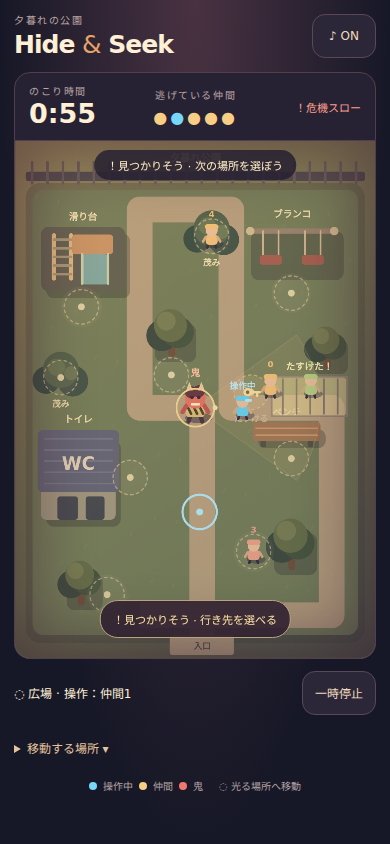
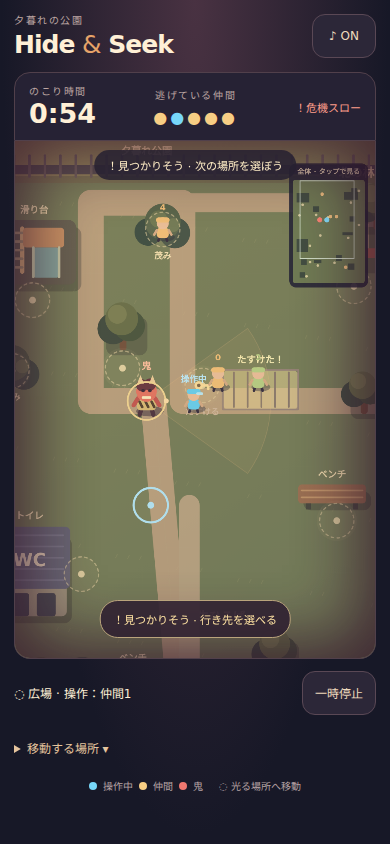
Add files via upload

Changed region(s): [[0.0308, 0.1232, 0.9846, 0.7701], [0.4, 0.7393, 0.6154, 0.8009]]

diff --git a/app.js b/app.js
@@ -1,11 +1,13 @@
-import {Game,W,H,points,obstacles,jail,RESCUE_POINT} from './engine.js';
+import {Camera,mini} from './camera.js';
+import {Game,W,H,points,obstacles,jail,RESCUE_POINT,WORLD_W,WORLD_H} from './engine.js';
 const $=id=>document.getElementById(id),canvas=$('park'),ctx=canvas.getContext('2d');
 let game=new Game(),selectedTime=60,active=false,paused=false,last=0,soundOn=true,audio,beatAt=0,eventIndex=0,toastUntil=0;
+const camera=new Camera();camera.center(game.controlled.x,game.controlled.y);
 const viewSettings={showVision:true}; // Future difficulty modes can turn off the cone.
 const reduced=matchMedia('(prefers-reduced-motion: reduce)').matches;
 function unlock(){try{audio??=new (window.AudioContext||window.webkitAudioContext)();audio.resume().catch(()=>{});}catch{soundOn=false;}}
 function tone(freq,duration=.12,volume=.035,type='sine',delay=0){if(!audio||!soundOn||audio.state!=='running')return;const t=audio.currentTime+delay,osc=audio.createOscillator(),gain=audio.createGain();osc.type=type;osc.frequency.setValueAtTime(freq,t);osc.frequency.exponentialRampToValueAtTime(Math.max(35,freq*.45),t+duration);gain.gain.setValueAtTime(.001,t);gain.gain.exponentialRampToValueAtTime(volume,t+.012);gain.gain.exponentialRampToValueAtTime(.001,t+duration);osc.connect(gain);gain.connect(audio.destination);osc.start(t);osc.stop(t+duration+.02);}
-function start(){unlock();game=new Game(selectedTime);active=true;paused=false;eventIndex=0;beatAt=0;toastUntil=0;$('startPanel').hidden=true;$('resultPanel').hidden=true;$('pause').disabled=false;$('pause').textContent='一時停止';$('hint').textContent='光る場所をタップして移動';tone(420,.2);updateUI();}
+function start(){unlock();game=new Game(selectedTime);camera.follow=true;camera.center(game.controlled.x,game.controlled.y);active=true;paused=false;eventIndex=0;beatAt=0;toastUntil=0;$('startPanel').hidden=true;$('resultPanel').hidden=true;$('pause').disabled=false;$('pause').textContent='一時停止';$('hint').textContent='光る場所をタップして移動';tone(420,.2);updateUI();}
 function go(p){if(!active||paused)return;if(game.move(game.controlledId,p)){tone(510,.07,.02);$('hint').textContent=points[p].name+'へ移動中…';}else if(game.controlled.state==='moving'){showToast('移動が終わったら、次の場所を選ぼう');}}
 function showToast(text){$('hint').textContent=text;toastUntil=game.elapsed+3;}
 $('start').onclick=start;$('again').onclick=start;$('back').onclick=()=>{active=false;$('resultPanel').hidden=true;$('startPanel').hidden=false;$('pause').disabled=true;game=new Game(selectedTime);updateUI();};
@@ -13,8 +15,20 @@ for(const b of document.querySelectorAll('[data-time]'))b.onclick=()=>{selectedT
 $('sound').onclick=()=>{soundOn=!soundOn;if(soundOn)unlock();$('sound').textContent=soundOn?'♪ ON':'♪ OFF';$('sound').setAttribute('aria-pressed',String(soundOn));$('sound').setAttribute('aria-label',soundOn?'音を切る':'音を出す');};
 function pause(){if(!active||game.state==='ended')return;paused=!paused;$('pause').textContent=paused?'再開 ▶':'一時停止';$('hint').textContent=paused?'一時停止中': '光る場所をタップして移動';if(!paused)unlock();}
 $('pause').onclick=pause;document.addEventListener('visibilitychange',()=>{if(document.hidden&&active&&!paused&&game.state==='playing')pause();});
-points.forEach((p,i)=>{const b=document.createElement('button');b.textContent=p.name;b.onclick=()=>go(i);$('locations').append(b);});
-canvas.addEventListener('pointerup',e=>{const r=canvas.getBoundingClientRect(),p={x:(e.clientX-r.left)*W/r.width,y:(e.clientY-r.top)*H/r.height};let closest=-1,d=Infinity;points.forEach((n,i)=>{const nd=Math.hypot(n.x-p.x,n.y-p.y);if(nd<d){d=nd;closest=i;}});if(d<Math.max(30,22*W/r.width))go(closest);});
+points.forEach((p,i)=>{const b=document.createElement('button');b.textContent=p.name;b.onclick=()=>{go(i);document.querySelector('details').open=false;document.querySelector('header').scrollIntoView({block:'start',behavior:'auto'});};$('locations').append(b);});
+let drag=null;
+canvas.addEventListener('pointerdown',e=>{const r=canvas.getBoundingClientRect();drag={id:e.pointerId,x:e.clientX,y:e.clientY,lastX:e.clientX,lastY:e.clientY,moved:false,sx:(e.clientX-r.left)*W/r.width,sy:(e.clientY-r.top)*H/r.height};canvas.setPointerCapture(e.pointerId);});
+canvas.addEventListener('pointermove',e=>{if(!drag||drag.id!==e.pointerId)return;const r=canvas.getBoundingClientRect();if(Math.hypot(e.clientX-drag.x,e.clientY-drag.y)>8)drag.moved=true;if(drag.moved){camera.pan((drag.lastX-e.clientX)*W/r.width,(drag.lastY-e.clientY)*H/r.height);drag.lastX=e.clientX;drag.lastY=e.clientY;}});
+canvas.addEventListener('pointercancel',()=>drag=null);
+canvas.addEventListener('pointerup',e=>{if(!drag)return;const gesture=drag;drag=null;if(gesture.moved)return;
+ const r=canvas.getBoundingClientRect(),sx=(e.clientX-r.left)*W/r.width,sy=(e.clientY-r.top)*H/r.height;
+ if(sx>=mini.x&&sx<=mini.x+mini.w&&sy>=mini.y&&sy<=mini.y+mini.h){camera.follow=false;camera.center((sx-mini.x)/mini.w*WORLD_W,(sy-mini.y)/mini.h*WORLD_H);return;}
+ const p=camera.world(sx,sy);let closest=-1,d=Infinity;points.forEach((n,i)=>{const screen=camera.screen(n.x,n.y);if(screen.x<0||screen.x>W||screen.y<0||screen.y>H)return;const nd=Math.hypot(n.x-p.x,n.y-p.y);if(nd<d){d=nd;closest=i;}});
+ if(d<Math.max(30,22*W/r.width))go(closest);
+});
+function resumeFollow(){camera.follow=true;showToast('青い帽子を追いかける');}
+$('follow').onclick=resumeFollow;
+$('follow').onpointerup=e=>{e.preventDefault();resumeFollow();};
 function updateUI(){const c=game.controlled,prisoners=game.characters.filter(c=>c.state==='captured').length,focused=game.focus.remaining>0;
  $('clock').textContent=`${Math.floor(Math.ceil(game.remaining)/60)}:${String(Math.ceil(game.remaining)%60).padStart(2,'0')}`;
  $('clock').style.color=game.remaining<=10&&active?'#ff9e8b':'';
@@ -49,28 +63,39 @@ function drawJail(){const count=game.characters.filter(c=>c.state==='captured').
  for(let x=jail.x+13;x<jail.x+jail.w;x+=16)line(x,jail.y+3,x,jail.y+jail.h-3,count?'#b69a7d':'#87796e',2);
  text(flash?'たすけた！':count?`牢屋 · ${count}人`:'鬼の牢屋',jail.x+jail.w/2,jail.y-8,11,flash?'#fff8bc':'#f2d1a6');
 }
-function draw(t){ctx.setTransform(2,0,0,2,0,0);ctx.clearRect(0,0,W,H);ctx.save();if(!reduced&&active&&!paused&&game.danger>.8){ctx.translate(Math.sin(t*28)*.7,Math.cos(t*24)*.5);}const bg=ctx.createLinearGradient(0,0,W,H);bg.addColorStop(0,'#9b8e60');bg.addColorStop(.5,'#767d55');bg.addColorStop(1,'#555c4e');ctx.fillStyle=bg;ctx.fillRect(0,0,W,H);
+function drawMapHUD(){
+ rect(mini.x-4,mini.y-19,mini.w+8,mini.h+24,'#242435dc',8);text('全体 · タップで見る',mini.x+mini.w/2,mini.y-7,8,'#dbc9ab');rect(mini.x,mini.y,mini.w,mini.h,'#707b54',3);
+ const px=x=>mini.x+x/WORLD_W*mini.w,py=y=>mini.y+y/WORLD_H*mini.h;
+ obstacles.forEach(o=>rect(px(o.x),py(o.y),o.w/WORLD_W*mini.w,o.h/WORLD_H*mini.h,'#434e42'));
+ points.forEach(p=>circle(px(p.x),py(p.y),1.5,p.rescue?'#f6e4a0':'#d4c99a'));
+ game.characters.forEach(c=>circle(px(c.x),py(c.y),c.id===game.controlledId?3:2,c.state==='captured'?'#a48ca5':c.id===game.controlledId?'#84e3ff':'#f4c581'));
+ circle(px(game.oni.x),py(game.oni.y),3,'#ff8775');ctx.strokeStyle='#dbe8d4';ctx.lineWidth=1;ctx.strokeRect(px(camera.x),py(camera.y),W/WORLD_W*mini.w,H/WORLD_H*mini.h);
+ const o=camera.screen(game.oni.x,game.oni.y);if(o.x<20||o.x>W-20||o.y<45||o.y>H-40){const x=Math.max(18,Math.min(W-18,o.x)),y=Math.max(48,Math.min(H-36,o.y));circle(x,y,13,'#603641dd');text('鬼',x,y+4,11,'#ffc39c');}
+ $('follow').hidden=camera.follow;
+}
+function draw(t){ctx.setTransform(2,0,0,2,0,0);ctx.clearRect(0,0,W,H);ctx.save();if(!reduced&&active&&!paused&&game.danger>.8){ctx.translate(Math.sin(t*28)*.7,Math.cos(t*24)*.5);}ctx.translate(-camera.x,-camera.y);const bg=ctx.createLinearGradient(0,0,WORLD_W,WORLD_H);bg.addColorStop(0,'#9b8e60');bg.addColorStop(.5,'#767d55');bg.addColorStop(1,'#555c4e');ctx.fillStyle=bg;ctx.fillRect(0,0,WORLD_W,WORLD_H);
  // park wall, looping footpath and small scenery
- rect(12,49,396,534,'#424b4355',18);rect(20,57,380,517,'#75805b',13);ctx.strokeStyle='#b9a280';ctx.lineWidth=30;ctx.lineJoin='round';ctx.beginPath();ctx.moveTo(218,579);ctx.lineTo(218,310);ctx.lineTo(145,310);ctx.lineTo(145,80);ctx.lineTo(252,80);ctx.lineTo(252,310);ctx.lineTo(369,310);ctx.lineTo(369,551);ctx.lineTo(145,551);ctx.stroke();ctx.strokeStyle='#baa78555';ctx.lineWidth=1;ctx.stroke();
- for(let i=0;i<80;i++){const x=24+(i*73%369),y=68+(i*113%492);line(x,y,x+2,y-4,'#d4c38b22',1);}
- rect(12,36,396,11,'#514e51',3);for(let x=18;x<405;x+=18)rect(x,24,3,27,'#6c6260',1);text('夕暮れ公園',210,24,12,'#f9d8a6');rect(180,574,75,23,'#baa785',3);text('入口',218,590,10,'#5c574d');bush(53,275);bush(229,111);
+ rect(12,49,WORLD_W-24,WORLD_H-66,'#424b4355',18);rect(20,57,WORLD_W-40,WORLD_H-83,'#75805b',13);ctx.strokeStyle='#b9a280';ctx.lineWidth=30;ctx.lineJoin='round';ctx.beginPath();ctx.moveTo(260,779);ctx.lineTo(218,310);ctx.lineTo(145,310);ctx.lineTo(145,80);ctx.lineTo(252,80);ctx.lineTo(252,310);ctx.lineTo(505,310);ctx.lineTo(505,731);ctx.lineTo(145,731);ctx.stroke();ctx.strokeStyle='#baa78555';ctx.lineWidth=1;ctx.stroke();
+ for(let i=0;i<140;i++){const x=24+(i*73%(WORLD_W-51)),y=68+(i*113%(WORLD_H-108));line(x,y,x+2,y-4,'#d4c38b22',1);}
+ rect(12,36,WORLD_W-24,11,'#514e51',3);for(let x=18;x<WORLD_W-15;x+=18)rect(x,24,3,27,'#6c6260',1);text('夕暮れ公園',210,24,12,'#f9d8a6');rect(222,774,75,23,'#baa785',3);text('入口',260,790,10,'#5c574d');bush(53,275);bush(229,111);bush(135,637);text('北の林',455,50,14,'#e8cca0');text('芝生ひろば',290,565,14,'#ebd1a5');text('休憩エリア',195,695,12,'#e8cca0');
+ line(252,80,505,80,'#b9a280',22);line(260,431,260,735,'#baa785',24);line(145,637,260,637,'#baa785',20);
  // Movement routes preview while walking.
  const player=game.controlled;if(player.route.length){ctx.setLineDash([3,6]);ctx.strokeStyle='#b3e6e78c';ctx.lineWidth=2;ctx.beginPath();ctx.moveTo(player.x,player.y);for(const p of player.route)ctx.lineTo(p.x,p.y);ctx.stroke();ctx.setLineDash([]);}
  obstacles.forEach(equipment);drawJail();
  points.forEach((p,i)=>{const chosen=player.destination===i;const pulse=reduced?0:Math.sin(t*2.5+i)*1.7;circle(p.x,p.y,22+pulse,'#faf0b40d');ctx.strokeStyle=chosen?'#b5edff':'#e9d7a68c';ctx.lineWidth=chosen?2.5:1.5;ctx.setLineDash(chosen?[]:[3,4]);ctx.beginPath();ctx.arc(p.x,p.y,20,0,Math.PI*2);ctx.stroke();ctx.setLineDash([]);circle(p.x,p.y,4,chosen?'#b5edff':'#e4d6a6');if(p.bush)text('茂み',p.x,p.y+34,10);if(p.rescue){const prisoners=game.characters.filter(c=>c.state==='captured').length;circle(p.x,p.y,19,prisoners?'#f6d98e55':'#f6d98e15');circle(p.x-4,p.y,5,'#ffe3a0');circle(p.x-4,p.y,2,'#756146');line(p.x+1,p.y,p.x+10,p.y,'#ffe3a0',3);line(p.x+7,p.y,p.x+7,p.y+4,'#ffe3a0',3);text('たすける',p.x,p.y+34,10,prisoners?'#fff0ac':'#d0baa1');}});
  oni();[...game.characters].sort((a,b)=>a.y-b.y).forEach(character);
- const dusk=ctx.createLinearGradient(0,0,W,H);dusk.addColorStop(0,'#eb965313');dusk.addColorStop(1,'#22274322');ctx.fillStyle=dusk;ctx.fillRect(0,0,W,H);ctx.restore();}
+ const dusk=ctx.createLinearGradient(0,0,WORLD_W,WORLD_H);dusk.addColorStop(0,'#eb965313');dusk.addColorStop(1,'#22274322');ctx.fillStyle=dusk;ctx.fillRect(0,0,WORLD_W,WORLD_H);ctx.restore();drawMapHUD();}
 let uiTimer=0;function frame(now){const dt=Math.min((now-last)/1000||0,.05);last=now;if(active&&!paused){game.update(dt);
  let controlEvent=null;for(const e of game.events.filter(e=>e.seq>eventIndex)){eventIndex=e.seq;
   if(e.type==='spotted'){tone(360,.2,.035,'triangle');showToast(e.id===game.controlledId?'！見つかった！':`仲間${e.id}が見つかった！`);}
   if(e.type==='capture'){tone(120,.2,.035);showToast(`${e.id===0?'あなた':`仲間${e.id}`}が牢屋へ…`);}
-  if(e.type==='control'){tone(470,.13);controlEvent=e;}
+  if(e.type==='control'){tone(470,.13);controlEvent=e;camera.follow=true;}
   if(e.type==='rescue'){tone(540,.16,.025);tone(720,.22,.025,'sine',.12);showToast(`たすけた！ ${e.count}人が自由に！`);}
   if(e.type==='focus'){tone(90,.19,.05);showToast('！見つかりそう · 次の場所を選ぼう');}
  }
- if(controlEvent&&game.state==='playing')showToast(`青い帽子の仲間${controlEvent.id}に交代！ たすけに行こう`);
+ if(controlEvent&&game.state==='playing')showToast(`捕まった！ 青い帽子の仲間${controlEvent.id}へ交代`);
  if(game.state==='ended')end();
  if(game.danger>.25&&game.elapsed>beatAt){const focus=game.focus.remaining>0,interval=focus?.38:1.3-game.danger*.85;beatAt=game.elapsed+interval;tone(75,.13,focus?.045:.02+game.danger*.018);tone(60,.12,focus?.035:.018,'sine',.15);}
  }
- uiTimer+=dt;if(uiTimer>.1){updateUI();uiTimer=0;}draw(now/1000);requestAnimationFrame(frame);}updateUI();requestAnimationFrame(frame);
+ uiTimer+=dt;if(uiTimer>.1){updateUI();uiTimer=0;}camera.track(game.controlled,dt);draw(now/1000);requestAnimationFrame(frame);}updateUI();requestAnimationFrame(frame);
 if('serviceWorker'in navigator&&location.protocol!=='file:')navigator.serviceWorker.register('./sw.js').catch(()=>{});

diff --git a/phase2-engine.js b/phase2-engine.js
@@ -1,27 +1,23 @@
-export const W=420,H=600; // Fixed viewport; canvas resolution is unchanged.
-export const WORLD_W=560,WORLD_H=800;
-export const WALK_SPEED=61;
+export const W=420,H=600;
 export const obstacles=[
- {x:30,y:100,w:98,h:75,type:'slide'}, {x:399,y:97,w:108,h:57,type:'swing'},
- {x:30,y:460,w:87,h:100,type:'toilet'}, {x:387,y:407,w:79,h:22,type:'bench'},
- {x:157,y:205,w:48,h:44,type:'tree'}, {x:430,y:648,w:50,h:48,type:'tree'},
- {x:54,y:715,w:42,h:42,type:'tree'}, {x:442,y:283,w:40,h:40,type:'tree'},
- {x:455,y:65,w:44,h:44,type:'tree'}, {x:337,y:582,w:45,h:45,type:'tree'},
- {x:165,y:620,w:58,h:24,type:'bench'}, {x:65,y:615,w:44,h:44,type:'tree'}
+ {x:30,y:100,w:98,h:75,type:'slide'}, {x:269,y:97,w:108,h:57,type:'swing'},
+ {x:30,y:340,w:87,h:100,type:'toilet'}, {x:277,y:327,w:79,h:22,type:'bench'},
+ {x:157,y:205,w:48,h:44,type:'tree'}, {x:296,y:448,w:50,h:48,type:'tree'},
+ {x:54,y:495,w:42,h:42,type:'tree'}, {x:342,y:223,w:40,h:40,type:'tree'}
 ];
 export const points=[
- {x:77,y:193,name:'滑り台の裏',cover:.6}, {x:452,y:177,name:'ブランコ',cover:.18},
- {x:134,y:511,name:'トイレの横',cover:.78}, {x:53,y:275,name:'茂み',cover:.88,bush:true},
- {x:432,y:449,name:'ベンチ',cover:.28}, {x:182,y:272,name:'木の裏',cover:.7},
- {x:412,y:677,name:'大きな木',cover:.72}, {x:107,y:747,name:'入口の木',cover:.65},
+ {x:77,y:193,name:'滑り台の裏',cover:.6}, {x:322,y:177,name:'ブランコ',cover:.18},
+ {x:134,y:391,name:'トイレの横',cover:.78}, {x:53,y:275,name:'茂み',cover:.88,bush:true},
+ {x:322,y:369,name:'ベンチ',cover:.28}, {x:182,y:272,name:'木の裏',cover:.7},
+ {x:278,y:477,name:'大きな木',cover:.72}, {x:107,y:527,name:'入口の木',cover:.65},
  {x:229,y:111,name:'花だんの茂み',cover:.86,bush:true}, {x:215,y:431,name:'広場',cover:.05}
 ];
 const dist=(a,b)=>Math.hypot(a.x-b.x,a.y-b.y);
-const blocked=(x,y,pad=6)=>x<15||x>WORLD_W-15||y<57||y>WORLD_H-23||obstacles.some(o=>x>o.x-pad&&x<o.x+o.w+pad&&y>o.y-pad&&y<o.y+o.h+pad);
+const blocked=(x,y,pad=6)=>x<15||x>405||y<57||y>577||obstacles.some(o=>x>o.x-pad&&x<o.x+o.w+pad&&y>o.y-pad&&y<o.y+o.h+pad);
 function intersects(a,b,o){let t0=0,t1=1;for(const [s,d,min,max] of [[a.x,b.x-a.x,o.x,o.x+o.w],[a.y,b.y-a.y,o.y,o.y+o.h]]){if(Math.abs(d)<.0001){if(s<min||s>max)return false;}else{let lo=(min-s)/d,hi=(max-s)/d;if(lo>hi)[lo,hi]=[hi,lo];t0=Math.max(t0,lo);t1=Math.min(t1,hi);if(t0>t1)return false;}}return true;}
 export function lineClear(a,b){return !obstacles.some(o=>intersects(a,b,o));}
 // Small navigation grid: all characters walk around park equipment, never through it.
-const step=10,cols=Math.ceil(WORLD_W/step),rows=Math.ceil(WORLD_H/step);
+const step=10,cols=42,rows=60;
 export function pathfind(a,b){
  const key=(x,y)=>y*cols+x;const cell=p=>({x:Math.max(0,Math.min(cols-1,Math.floor(p.x/step))),y:Math.max(0,Math.min(rows-1,Math.floor(p.y/step)))});
  const start=cell(a),end=cell(b),queue=[start],seen=new Set([key(start.x,start.y)]),parent=new Map();let found=false;
@@ -34,13 +30,6 @@ function walk(c,speed,dt){let travel=speed*dt;while(c.route.length&&travel>0){co
 export const jail={x:299,y:274,w:88,h:46,slots:[{x:316,y:287},{x:340,y:287},{x:364,y:287},{x:326,y:308},{x:352,y:308}]};
 export const RESCUE_POINT=points.length;
 points.push({x:275,y:292,name:'仲間をたすける',cover:0,rescue:true});
-points.push(
- {x:515,y:85,name:'北の林',cover:.7,area:'林'},
- {x:515,y:349,name:'東の散歩道',cover:.18,area:'散歩道'},
- {x:325,y:642,name:'芝生の木',cover:.65,area:'芝生'},
- {x:195,y:663,name:'休憩ベンチ',cover:.3,area:'休憩所'},
- {x:135,y:637,name:'南の茂み',cover:.86,bush:true,area:'芝生'}
-);
 // Phase 3 rules seam. State transitions and presentation remain independent of mode.
 export const rescueRules={
  id:'park-rescue',rescueEnabled:true,rescueCooldown:6,releaseGrace:2.2,
@@ -94,7 +83,7 @@ export class Game{
  update(realDt){if(this.state!=='playing')return;realDt=Math.max(0,Math.min(realDt,.1));this.elapsed+=realDt;this.remaining=Math.max(0,this.remaining-realDt);
   // Countdown/cooldowns use real time; every actor, exposure and AI use the same slowed simulation clock.
   this.updateFocus(realDt);const dt=realDt*this.focus.scale;this.simTime+=dt;const o=this.oni;
-  for(const c of this.characters){if(c.state==='captured')continue;c.grace=Math.max(0,c.grace-dt);walk(c,c.state==='spotted'?0:WALK_SPEED,dt);
+  for(const c of this.characters){if(c.state==='captured')continue;c.grace=Math.max(0,c.grace-dt);walk(c,c.state==='spotted'?0:61,dt);
    if(c.state==='moving'&&!c.route.length){c.point=c.destination;c.state='hidden';c.exposure=0;if(c.point===RESCUE_POINT)this.rescue(c);}
    if(c.id!==this.controlledId&&c.state!=='spotted'){c.decision-=dt;if(c.decision<=0&&!c.route.length){c.decision=4+this.random()*8;
     const prisoners=this.rules.rescueTargets(this).length,help=prisoners>0&&this.elapsed>=this.rescueReadyAt&&dist(o,points[RESCUE_POINT])>90;

diff --git a/engine.test.js b/engine.test.js
@@ -3,7 +3,7 @@ import {Game,points,obstacles,pathfind,lineClear,RESCUE_POINT,jail,rescueRules} 
 export function rng(seed){return ()=>{seed=(Math.imul(1664525,seed)+1013904223)>>>0;return seed/4294967296;};}
 function run(g,t){for(let i=0;i<Math.ceil(t*60)&&g.state==='playing';i++)g.update(1/60);}
 for(const a of points)for(const b of points){const p=pathfind(a,b);assert(p.length);for(const n of p)assert(!obstacles.some(o=>n.x>o.x&&n.x<o.x+o.w&&n.y>o.y&&n.y<o.y+o.h));}
-assert(!lineClear({x:25,y:380},{x:140,y:380}));
+assert(!lineClear({x:25,y:500},{x:140,y:500}));
 const g=new Game(60,rng(1));g.capture(g.characters[0]);assert.equal(g.controlledId,1);assert.equal(g.characters[0].state,'captured');assert.equal(g.characters[0].x,jail.slots[0].x);assert(g.move(g.controlledId,3));assert(!g.move(0,3));run(g,.5);assert.equal(g.characters[0].x,jail.slots[0].x);
 g.capture(g.characters[2]);const rescuer=g.controlled;Object.assign(rescuer,{...points[RESCUE_POINT],point:RESCUE_POINT,state:'hidden',route:[]});assert(g.rescue(rescuer));assert.equal(g.stats.released,2);assert.equal(g.controlledId,1);assert(g.characters[0].route.length);assert(g.characters[2].route.length);assert(g.characters[0].grace>0);g.spot(g.characters[0]);assert.equal(g.characters[0].state,'moving');g.capture(g.characters[3]);assert(!g.rescue(rescuer));run(g,2);assert(g.characters[0].x!==jail.slots[0].x);assert(g.stats.comMoves>=0);
 // Arrival triggers the action; standing on the point cannot repeatedly rescue.
@@ -14,8 +14,9 @@ const fresh=new Game(180);assert(fresh.characters.every(c=>c.state==='hidden'));
 const focus=new Game(60,rng(4));Object.assign(focus.oni,{x:210,y:310,angle:0,wait:99});Object.assign(focus.controlled,{x:265,y:310,point:9,state:'hidden',exposure:.4});focus.characters.slice(1).forEach(c=>c.decision=99);focus.update(.02);assert.equal(focus.stats.focuses,1);assert.equal(focus.focus.scale,.6);assert.equal(focus.remaining,59.98);assert(Math.abs(focus.simTime-.012)<1e-9);assert(focus.move(0,3));assert(focus.move(0,1));assert(!focus.move(0,2));
 // Keep a dangerous but stationary view to verify cooldown and edge-trigger rearming.
 focus.controlled.route=[];focus.controlled.state='hidden';focus.controlled.point=9;for(let i=0;i<600;i++){focus.controlled.exposure=0;focus.update(.016);}assert.equal(focus.stats.focuses,1);Object.assign(focus.controlled,{x:80,y:550,exposure:0});focus.update(.02);Object.assign(focus.controlled,{x:265,y:310,exposure:.9});focus.update(.02);assert.equal(focus.stats.focuses,2);assert.equal(focus.focus.scale,.42);
-const shielded=new Game();Object.assign(shielded.oni,{x:40,y:380,angle:0,wait:99});Object.assign(shielded.controlled,{x:134,y:380,point:2});shielded.update(.02);assert.equal(shielded.stats.focuses,0);
+const shielded=new Game();Object.assign(shielded.oni,{x:40,y:500,angle:0,wait:99});Object.assign(shielded.controlled,{x:134,y:500,point:2});shielded.update(.02);assert.equal(shielded.stats.focuses,0);
 const visible=new Game();Object.assign(visible.oni,{x:210,y:310,angle:0,wait:99});Object.assign(visible.controlled,{x:265,y:310,point:9,exposure:1.2});run(visible,3);assert(visible.stats.discoveries>0);assert(visible.stats.captures>0);assert.notEqual(visible.controlledId,0);
 const rules=new Game(60,rng(9),{...rescueRules,rescueEnabled:false});rules.capture(rules.characters[2]);Object.assign(rules.controlled,{...points[RESCUE_POINT],point:RESCUE_POINT,state:'hidden'});assert(!rules.rescue(rules.controlled));
-const results=[];for(let seed=1;seed<=20;seed++){const sim=new Game(60,rng(seed));run(sim,61);assert.equal(sim.state,'ended');assert(sim.stats.patrols>0);assert(sim.stats.comMoves>0);assert(sim.stats.captures>0);results.push({seed,...sim.result,...sim.stats});}
-console.log('PASS: navigation 121 pairs; capture/automatic control transfer; group rescue/arrival/grace/cooldown; defeat/timeout/reset; visibility/focus/redirect/rearm; rule override; 20 complete rounds');console.log(JSON.stringify(results));
+const results=[];for(let seed=1;seed<=20;seed++){const sim=new Game(60,rng(seed));run(sim,61);assert.equal(sim.state,'ended');assert(sim.stats.patrols>0);assert(sim.stats.comMoves>0);results.push({seed,...sim.result,...sim.stats});}
+assert(results.some(r=>r.captures>0));
+console.log('PASS: navigation 256 pairs; capture/automatic control transfer; group rescue/arrival/grace/cooldown; defeat/timeout/reset; visibility/focus/redirect/rearm; rule override; 20 complete rounds');console.log(JSON.stringify(results));

diff --git a/index.html b/index.html
@@ -1,7 +1,7 @@
 <!doctype html><html lang="ja"><head><meta charset="utf-8"><meta name="viewport" content="width=device-width,initial-scale=1,viewport-fit=cover"><meta name="theme-color" content="#201e31"><meta name="description" content="夕方の公園で、赤鬼からかくれんぼ。移動する場所をタップして逃げ切ろう。"><link rel="manifest" href="./manifest.webmanifest"><link rel="icon" href="./icons/icon-192.png"><link rel="stylesheet" href="./style.css"><title>Hide and Seek · 夕暮れの公園</title></head>
 <body><main class="app"><header><div><span class="eyebrow">夕暮れの公園</span><h1>Hide <span>&</span> Seek</h1></div><button id="sound" class="small" aria-pressed="true" aria-label="音を切る">♪ ON</button></header>
 <section class="dashboard" aria-label="ゲームの状態"><div><span class="eyebrow">のこり時間</span><strong id="clock">1:00</strong></div><div class="members"><span class="eyebrow">逃げている仲間</span><div id="members">● ● ● ● ●</div></div><div id="danger" class="danger">かくれよう</div></section>
-<div class="field"><canvas id="park" width="840" height="1200" aria-label="公園のマップ。下の場所ボタンでも移動できます。"></canvas><div id="vignette"></div><div id="focusLabel" class="focus-label" hidden></div><div id="hint" class="hint">光る場所をタップして移動</div>
-<section id="startPanel" class="overlay"><div class="card"><div class="moon">☾</div><span class="eyebrow">赤鬼が来るまえに…</span><h2>どこに、かくれる？</h2><p>光る場所をタップ。<br>牢屋の前で仲間をたすけよう。</p><fieldset><legend>あそぶ時間</legend><div class="times"><button data-time="60" aria-pressed="true">1分</button><button data-time="180" aria-pressed="false">3分</button><button data-time="300" aria-pressed="false">5分</button></div></fieldset><button id="start" class="primary">かくれんぼ スタート →</button><p class="caption">青い帽子を操作 ／ 捕まったら仲間へ交代</p></div></section>
+<div class="field"><canvas id="park" width="840" height="1200" aria-label="公園のマップ。下の場所ボタンでも移動できます。"></canvas><div id="vignette"></div><button id="follow" class="follow-button" hidden>操作中へ ↗</button><div id="focusLabel" class="focus-label" hidden></div><div id="hint" class="hint">光る場所をタップして移動</div>
+<section id="startPanel" class="overlay"><div class="card"><div class="moon">☾</div><span class="eyebrow">赤鬼が来るまえに…</span><h2>どこに、かくれる？</h2><p>光る場所をタップ。<br>画面をなぞると、公園を見渡せる。</p><fieldset><legend>あそぶ時間</legend><div class="times"><button data-time="60" aria-pressed="true">1分</button><button data-time="180" aria-pressed="false">3分</button><button data-time="300" aria-pressed="false">5分</button></div></fieldset><button id="start" class="primary">かくれんぼ スタート →</button><p class="caption">青い帽子を操作 ／ 捕まったら仲間へ交代</p></div></section>
 <section id="resultPanel" class="overlay" hidden><div class="card"><span class="eyebrow">かくれんぼ おしまい</span><h2 id="resultTitle"></h2><p id="playerResult"></p><div id="resultStats" class="result-stats"></div><button id="again" class="primary">もういちど あそぶ ↻</button><button id="back" class="secondary">時間をえらび直す</button></div></section></div>
 <footer><div class="status-line"><strong id="status" role="status">あなたは青い帽子</strong><button id="pause" class="small" disabled>一時停止</button></div><details><summary>移動する場所 ▾</summary><div id="locations" class="locations"></div></details><p class="legend"><i class="blue"></i>操作中 <i class="orange"></i>仲間 <i class="red"></i>鬼　<span>◌ 光る場所へ移動</span></p></footer></main><script type="module" src="./app.js"></script></body></html>

diff --git a/field.test.js b/field.test.js
@@ -1,0 +1,8 @@
+import assert from 'node:assert/strict';
+import {Game,points,pathfind,W,H,WORLD_W,WORLD_H} from '../engine.js';
+import {Camera} from '../camera.js';
+assert.equal(W,420);assert.equal(H,600);assert.equal(WORLD_W,560);assert.equal(WORLD_H,800);assert(WORLD_W>W&&WORLD_H>H);assert.equal(points.length,16);
+const camera=new Camera();camera.center(107,747);assert.equal(camera.y,200);assert(camera.world(10,10).y===210);camera.pan(999,999);assert.equal(camera.x,140);assert.equal(camera.y,200);camera.pan(-999,-999);assert.equal(camera.x,0);assert.equal(camera.y,0);
+const game=new Game();game.characters.forEach(c=>c.decision=999);game.controlled.grace=999;Object.assign(game.oni,{wait:999,route:[],inspect:null});assert(game.move(0,11));const start=game.controlled.y;for(let t=0;t<1200;t++)game.update(.016);assert(game.controlled.y<start-400);assert.equal(game.controlled.state,'hidden');
+const chase=new Game();Object.assign(chase.oni,{wait:999});chase.spot(chase.characters[0]);const initial={x:chase.characters[0].x,y:chase.characters[0].y};chase.capture(chase.characters[2]);Object.assign(chase.characters[1],{...points[10],state:'hidden',point:10,route:[]});assert(chase.rescue(chase.characters[1]));assert.equal(chase.characters[0].state,'spotted');assert.equal(chase.oni.target,0);assert.equal(chase.characters[0].x,initial.x);assert.equal(chase.characters[0].y,initial.y);
+console.log('PASS: real larger world, fixed viewport, camera clamps/conversion, traversing new areas, spotted target cannot become rescued or warp');

diff --git a/sw.js b/sw.js
@@ -1,5 +1,5 @@
-const CACHE='hide-seek-phase2-v1';
-const ASSETS=['./','./index.html','./style.css','./engine.js','./app.js','./manifest.webmanifest','./icons/icon-192.png','./icons/icon-512.png','./icons/icon-maskable-512.png'];
+const CACHE='hide-seek-phase2-wide-v1';
+const ASSETS=['./','./index.html','./style.css','./engine.js','./camera.js','./app.js','./manifest.webmanifest','./icons/icon-192.png','./icons/icon-512.png','./icons/icon-maskable-512.png'];
 self.addEventListener('install',event=>{event.waitUntil(caches.open(CACHE).then(cache=>cache.addAll(ASSETS)));});
 self.addEventListener('activate',event=>{event.waitUntil(caches.keys().then(keys=>Promise.all(keys.filter(k=>k.startsWith('hide-seek-')&&k!==CACHE).map(k=>caches.delete(k)))).then(()=>self.clients.claim()));});
 self.addEventListener('fetch',event=>{if(event.request.method!=='GET'||new URL(event.request.url).origin!==self.location.origin)return;event.respondWith(fetch(event.request).then(response=>{if(response.ok){const copy=response.clone();caches.open(CACHE).then(cache=>cache.put(event.request,copy));}return response;}).catch(()=>caches.match(event.request).then(cached=>cached||(event.request.mode==='navigate'?caches.match('./index.html'):Response.error()))));});

diff --git a/camera.js b/camera.js
@@ -1,0 +1,15 @@
+import {W,H,WORLD_W,WORLD_H} from './engine.js';
+const clamp=(value,min,max)=>Math.max(min,Math.min(max,value));
+export class Camera{
+ constructor(){this.x=0;this.y=0;this.follow=true;this.targetId=null;}
+ center(x,y){this.x=clamp(x-W/2,0,WORLD_W-W);this.y=clamp(y-H/2,0,WORLD_H-H);}
+ track(character,dt=1){if(!this.follow)return;
+  const tx=clamp(character.x-W/2,0,WORLD_W-W),ty=clamp(character.y-H/2,0,WORLD_H-H);
+  // Changing control uses a smooth camera move, rather than moving the actor.
+  const alpha=1-Math.exp(-dt*7);this.x+=(tx-this.x)*alpha;this.y+=(ty-this.y)*alpha;this.targetId=character.id;
+ }
+ pan(dx,dy){this.follow=false;this.x=clamp(this.x+dx,0,WORLD_W-W);this.y=clamp(this.y+dy,0,WORLD_H-H);}
+ world(x,y){return {x:x+this.x,y:y+this.y};}
+ screen(x,y){return {x:x-this.x,y:y-this.y};}
+}
+export const mini={x:W-96,y:45,w:84,h:120};

diff --git a/style.css b/style.css
@@ -4,3 +4,5 @@
 @media(max-height:640px){.moon{display:none}.card{padding:13px 12px}.card h2{font-size:20px;margin:8px 0}.card p{font-size:12px;line-height:1.65;margin:8px 0}.card .caption{font-size:9px;line-height:1.4}.card fieldset{margin:10px 0}.card legend{margin-bottom:7px}.result-stats{margin:12px 0}.result-stats strong{font-size:22px}}
 
 .focus-label{position:absolute;bottom:20px;left:50%;transform:translateX(-50%);width:max-content;max-width:95%;font-size:11px;color:#ffe3a3;border:1px solid #baa47c;background:#302232e8;padding:10px 12px;border-radius:18px;pointer-events:none}.focus-label[hidden]{display:none}
+
+canvas{touch-action:none}.follow-button{position:absolute;right:9px;bottom:9px;min-height:44px;padding:8px 12px;border-radius:13px;border:1px solid #9b8070;background:#30283ae8;color:#ffe0b3;font-size:11px}.follow-button[hidden]{display:none}

diff --git a/README.md b/README.md
@@ -1,4 +1,4 @@
-# Hide and Seek — Phase 2
+# Hide and Seek — Phase 2・フィールド拡張版
 
 夕暮れの公園で、赤鬼から隠れて仲間をたすけるゲーム。Android縦画面を優先したWebゲームです。
 
@@ -14,15 +14,31 @@ HTMLのダブルクリック（file://）ではモジュール・PWAが動かな
 
 GitHub Pagesで公開するには、ZIPを展開し、中身の `index.html`、JS、CSS、manifest、`sw.js`、`icons`をリポジトリ直下に配置します。リポジトリの **Settings → Pages** でブランチから公開する設定を選び、**main / (root)** を指定して保存してください。すべて相対パスなので、リポジトリ名付きのURLに対応しています。
 
-Android Chromeで公開URLを開き、メニューの「ホーム画面に追加」または「アプリをインストール」から追加できます。初回オンラインでキャッシュした後はオフライン起動にも対応しています。更新時は `sw.js` の `CACHE` 名を変更してください。Phase 2はPhase 1と異なるキャッシュ名です。既に開いている旧版は閉じ、公開URLを開き直してください。
+Android Chromeで公開URLを開き、メニューの「ホーム画面に追加」または「アプリをインストール」から追加できます。初回オンラインでキャッシュした後はオフライン起動にも対応しています。更新時は `sw.js` の `CACHE` 名を変更してください。拡張版は従来のPhase 2と異なるキャッシュ名です。既に開いている旧版は閉じ、公開URLを開き直してください。
+
+## 公園の拡張
+
+Canvasは従来と同じ **840×1200**、画面に映る範囲も **420×600** のままです。ゲーム世界を **560×800** に広げ、面積を約1.78倍にしました。キャラ・遊具の大きさと歩行速度は維持しています。
+
+ブランコ、トイレ、ベンチ、入口の木の位置関係を広げ、北の林・東の散歩道・南の芝生と休憩場所を追加しています。移動ポイントは11から16か所へ増えました。
+
+- **操作キャラを自動で追う**：歩くと画面がスクロールします。
+- **画面をなぞる**：移動せず、公園を見渡せます。
+- **右上の全体図をタップ**：その付近を表示します。キャラは移動しません。
+- **「操作中へ」**：キャラを追う表示に戻します。
+- **画面外の目的地**：見渡してからポイントをタップするか、下の場所一覧で選びます。
+- 鬼の位置は全体図の赤い点と、画面端の「鬼」表示でも確認できます。
+
+同じ速度で公園の対角の端から端へ歩くと、旧版14.27秒 → 新版19.84秒。約5.57秒長く、移動時間は1.39倍です。単なる高解像度化や全体縮小ではなく、論理座標と移動経路の拡張です。計測条件と再実行方法は検証レポートに記載しています。
 
 ## 操作
 
 1. **1分・3分・5分**を選び、スタート。
 2. **青い帽子と「操作中」の表示があるキャラ**を操作します。光る場所をタップすると自動で歩きます。下の「移動する場所」からも選べます。
-3. 仲間が捕まったら、公園右側の**牢屋の前にある鍵マーク**へ移動すると、捕まっている仲間を全員解放できます。
-4. 操作キャラが捕まったら、生存者へ**自動で交代**します。青い帽子も次のキャラへ移るので、同じように場所をタップしてください。
-5. 救出後も、今操作しているキャラをそのまま操作します。元のキャラはCOMとして逃げます。
+3. 画面をなぞると見渡せます。右上の全体図は、見る場所の切替です。
+4. 仲間が捕まったら、公園右側の**牢屋の前にある鍵マーク**へ移動すると、捕まっている仲間を全員解放できます。
+5. 操作キャラが捕まったら、生存者へ**自動で交代**します。青い帽子も次のキャラへ移るので、同じように場所をタップしてください。
+6. 救出後も、今操作しているキャラをそのまま操作します。元のキャラはCOMとして逃げます。
 
 鬼は牢屋の前にも来ます。助けに行くタイミングを、鬼の向きと位置から決めましょう。解放された仲間は別々の隠れ場所へ逃げ出します。
 
@@ -34,7 +50,16 @@ Android Chromeで公開URLを開き、メニューの「ホーム画面に追加
 - **一時停止**：休憩。アプリやタブを離れた場合も自動停止します。
 - **もういちど**：新しい試合。時間を選び直すこともできます。
 
-## Phase 2の変更
+## 拡張版の変更
+
+- 既存の救出・操作交代・スローを再利用。
+- 固定した画面サイズと、大きなゲーム世界を分離。
+- カメラの座標変換、追従・見渡し・全体図・画面外の鬼表示を追加。
+- 遊具と隠れ場所の間隔を広げ、新しい散歩・芝生エリアを追加。
+- 捕獲後の交代通知を「捕まった！ 仲間へ交代」と明示。カメラは次のキャラまで滑らかに移動。
+- 見つかったキャラが他人の救出によって未発見へ戻ったり、捕獲前に牢屋へ飛んだりしないことを追加検証。
+
+## Phase 2の機能
 
 - 牢屋と、到着すると全員解放する救出ポイントを追加。
 - 捕獲後に生存者へ自動交代。操作中のCOMはAIの自動移動を停止。
@@ -71,6 +96,6 @@ Android Chromeで公開URLを開き、メニューの「ホーム画面に追加
 npm test
 ```
 
-ロジックテストに外部パッケージは不要です。ブラウザテストを再実行する場合は `npm install --no-save playwright`、`npx playwright install chromium` を実行し、`node tests/browser.test.mjs` を使ってください。
+ロジックテストに外部パッケージは不要です。`node tests/compare-field.mjs` で移動時間を再計測できます。`camera.js` は表示専用で、キャラの位置・捕獲状態を変更しません。ブラウザテストを再実行する場合は `npm install --no-save playwright`、`npx playwright install chromium` を実行し、`node tests/browser.test.mjs` を使ってください。
 
 アカウント、広告、アクセス解析、外部へのユーザー情報送信はありません。ゲームの実行に外部ライブラリ・外部サーバーは不要です。
